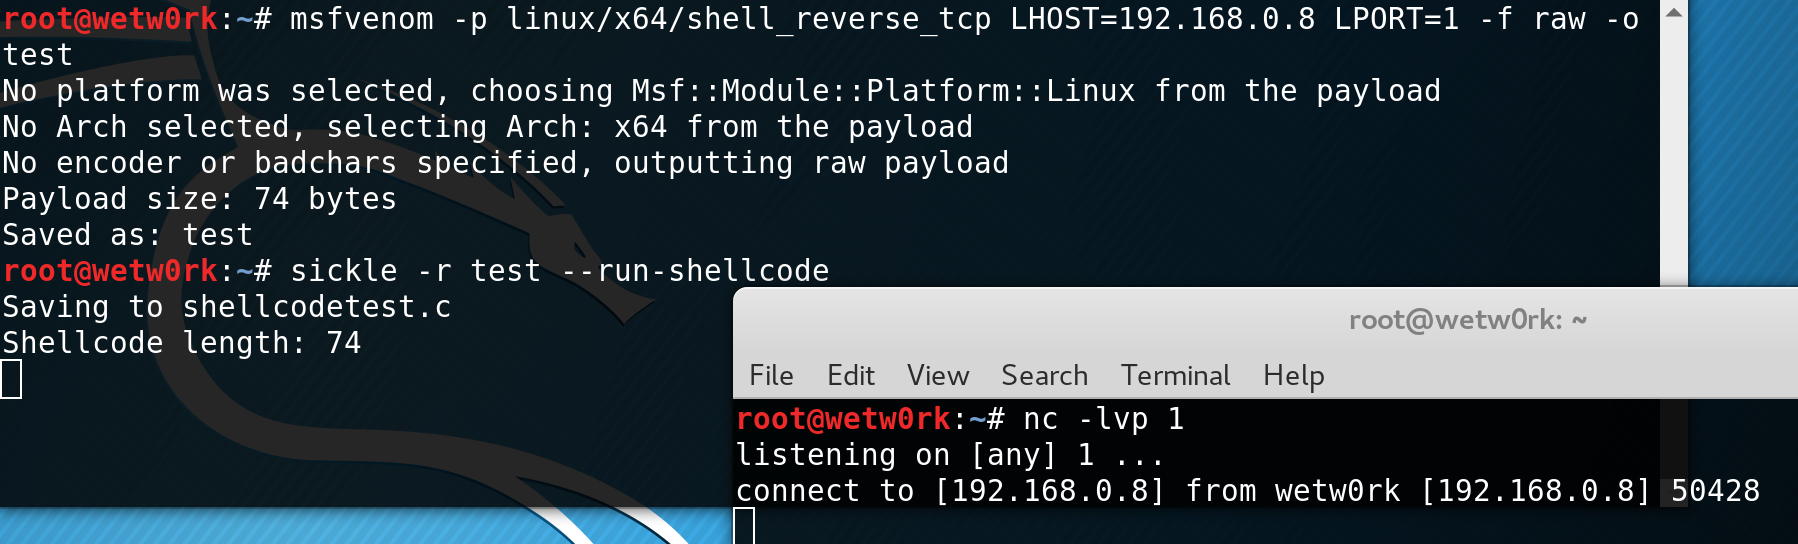
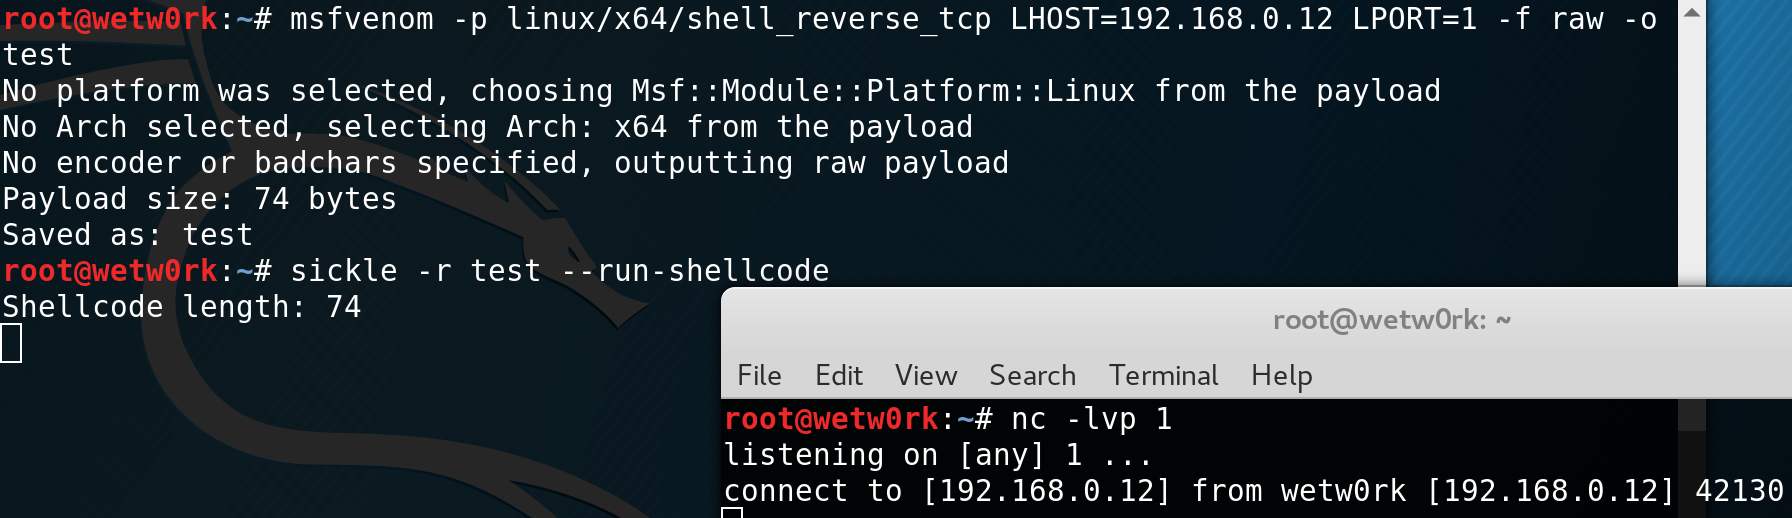
minor tweak

Changed region(s): [[0.0, 0.0, 1.0, 1.0]]

diff --git a/sickle.py b/sickle.py
@@ -23,9 +23,9 @@
 # SOFTWARE.
 #
 # Script name     : sickle.py
-# Version         : 1.1
+# Version         : 1.2
 # Created date    : 10/14/2017
-# Last update     : 10/17/2017
+# Last update     : 12/5/2017
 # Author          : wetw0rk
 # Architecture	  : x86, and x86-x64
 # Python version  : 3
@@ -38,8 +38,9 @@
 # Dependencies (only needed for disassembly)
 #   apt-get install python3-pip
 #   pip3 install capstone
-# 
+#
 
+from ctypes import CDLL, c_char_p, c_void_p, memmove, cast, CFUNCTYPE
 import os, sys, ctypes, codecs, argparse, binascii, subprocess
 
 # capstone is only needed for disassembly
@@ -93,6 +94,7 @@ def format_list():
             "c",
             "python",
             "perl",
+            "ruby-array",
     ]
 
     supported_architectures = [
@@ -288,6 +290,25 @@ class formatting():
                         instruction_line[i])
                     ).expandtabs(40),
 
+        if self.format_mode == "ruby-array":
+            print('%s = ""' % self.variable)
+            for i in range(len(instruction_line)):
+                if ID in results[i]:
+                    completed_conversion += ("%s << \"%s\"\t %s%s# %s%s" % (
+                        self.variable,
+                        hex_opcode_string[i],
+                        colors.BOLD,
+                        colors.RED,
+                        instruction_line[i],
+                        colors.END)
+                    ).expandtabs(40),
+                else:
+                    completed_conversion += ("%s << \"%s\"\t # %s" % (
+                        self.variable,
+                        results[i],
+                        instruction_line[i])
+                    ).expandtabs(40),
+
         if self.format_mode == "perl":
             for i in range(len(instruction_line)):
                 if ID in results[i] and i != (len(instruction_line)-1):
@@ -323,7 +344,7 @@ class formatting():
     def tactical_dump(self):
 
         # are we reading from stdin?
-        try:    
+        try:
             with open(self.byte_file, "rb") as fd:
                 fc = fd.read()
         except:
@@ -528,7 +549,7 @@ class reversing():
         self.mode       = mode
 
     def compare_dump(self):
-    
+
         done        = []
         examination = ""
         op_str      = ""
@@ -665,31 +686,18 @@ def deployment(byte_file):
 
     # operating system shellcode execution is a bit different
     if os.name == 'posix':
-        sc = ""
-        print("Saving to shellcodetest.c")
-
-        for byte in bytearray(fc):
-            sc += "\\x{:02x}".format(byte)
 
         print("Shellcode length: {:d}".format(len(fc)))
 
-        cmd = "gcc -fno-stack-protector -z execstack shellcodetest.c -o shellcodetest && ./shellcodetest"
-        shellcodetest = "#include <stdio.h>\n"
-        shellcodetest += "#include <string.h>\n\n"
-        shellcodetest += "unsigned char code[]=\n"
-        shellcodetest += '"' + sc + '"' + ";\n\n"
-        shellcodetest += "int main()\n"
-        shellcodetest += "{\n"
-        shellcodetest += "\tint (*ret)() = (int(*)())code;\n"
-        shellcodetest += "\tret();\n"
-        shellcodetest += "}\n"
-
-        file = open("shellcodetest.c", "w")
-        file.write(shellcodetest)
-        file.close()
-
-        os.system(cmd)
-
+        shellcode = bytes(fc)                       # convert shellcode into a bytes
+        libc = CDLL('libc.so.6')                    # implement C functions (duh)
+        sc = c_char_p(shellcode)                    # character pointer (NUL terminated)
+        size = len(shellcode)                       # size of the shellcode executing
+        addr = c_void_p(libc.valloc(size))          # allocate bytes and return pointer to allocated memory
+        memmove(addr, sc, size)                     # copy bytes to allocated memory destination
+        libc.mprotect(addr, size, 0x7)              # change access protections
+        run = cast(addr, CFUNCTYPE(c_void_p))       # calling convention
+        run()                                       # run the shellcode
     else:
         print("Shellcode length: {:d}".format(len(fc)))
 
@@ -716,18 +724,18 @@ def deployment(byte_file):
         ctypes.windll.kernel32.RtlMoveMemory(ctypes.c_int(ptr),
                 buf, ctypes.c_int(len(shellcode)))
         # HANDLE WINAPI CreateThread(
-        #   _In_opt_  LPSECURITY_ATTRIBUTES  lpThreadAttributes,    // If lpThreadAttributes is NULL, the thread gets a default security descriptor. 
+        #   _In_opt_  LPSECURITY_ATTRIBUTES  lpThreadAttributes,    // If lpThreadAttributes is NULL, the thread gets a default security descriptor.
         #   _In_      SIZE_T                 dwStackSize,           // If this parameter is zero, the new thread uses the default size for the executable.
         #   _In_      LPTHREAD_START_ROUTINE lpStartAddress,        // A pointer to the application-defined function to be executed by the thread.
         #   _In_opt_  LPVOID                 lpParameter,           // optional (A pointer to a variable to be passed to the thread)
         #   _In_      DWORD                  dwCreationFlags,       // Run the thread immediately after creation.
-        #   _Out_opt_ LPDWORD                lpThreadId             // NULL, so the thread identifier is not returned. 
+        #   _Out_opt_ LPDWORD                lpThreadId             // NULL, so the thread identifier is not returned.
         # );
         ht = ctypes.windll.kernel32.CreateThread(ctypes.c_int(0),
                 ctypes.c_int(0), ctypes.c_int(ptr), ctypes.c_int(0), ctypes.c_int(0), ctypes.pointer(ctypes.c_int(0)))
         # Waits until the specified object is in the signaled state or the time-out interval elapses
         ctypes.windll.kernel32.WaitForSingleObject(ctypes.c_int(ht),ctypes.c_int(-1))
-                
+
     sys.exit()
 
 def objdump2shellcode(dumpfile):
@@ -801,7 +809,7 @@ def main():
     parser.add_argument("-d", "--disassemble",help="disassemble the binary file", action="store_true")
     parser.add_argument("-a", "--arch",help="select architecture for disassembly")
     parser.add_argument("-m", "--mode",help="select mode for disassembly")
-    parser.add_argument('-rs', "--run-shellcode",help="run the shellcode (on linux generates binary)", action="store_true")
+    parser.add_argument('-rs', "--run-shellcode",help="run the shellcode (use at your own risk)", action="store_true")
 
     args = parser.parse_args()
 

diff --git a/README.md b/README.md
@@ -23,7 +23,7 @@ Sometimes you find a piece of shellcode that is fluent in its execution and you 
 #### Bad character identification
 It's important to note that currently bad character identification is best used within a Linux based OS. When dumping shellcode on Windows bad characters will not be highlighted. Below is an example of usage in a Unix environment:
 
-![alt text](https://raw.githubusercontent.com/wetw0rk/Sickle/master/example-pictures/example4.png?style=centerme)
+![alt text](https://raw.githubusercontent.com/wetw0rk/Sickle/master/example-pictures/sickle.gif?style=centerme)
 
 #### Disassembly
 Sickle can also take a binary file and convert the opcodes to machine instructions:
@@ -82,6 +82,7 @@ optional arguments:
   -d, --disassemble     disassemble the binary file
   -a ARCH, --arch ARCH  select architecture for disassembly
   -m MODE, --mode MODE  select mode for disassembly
-  -rs, --run-shellcode  run the shellcode (on linux generates binary)
+  -rs, --run-shellcode  run the shellcode (use at your own risk)
+
 ```
 
